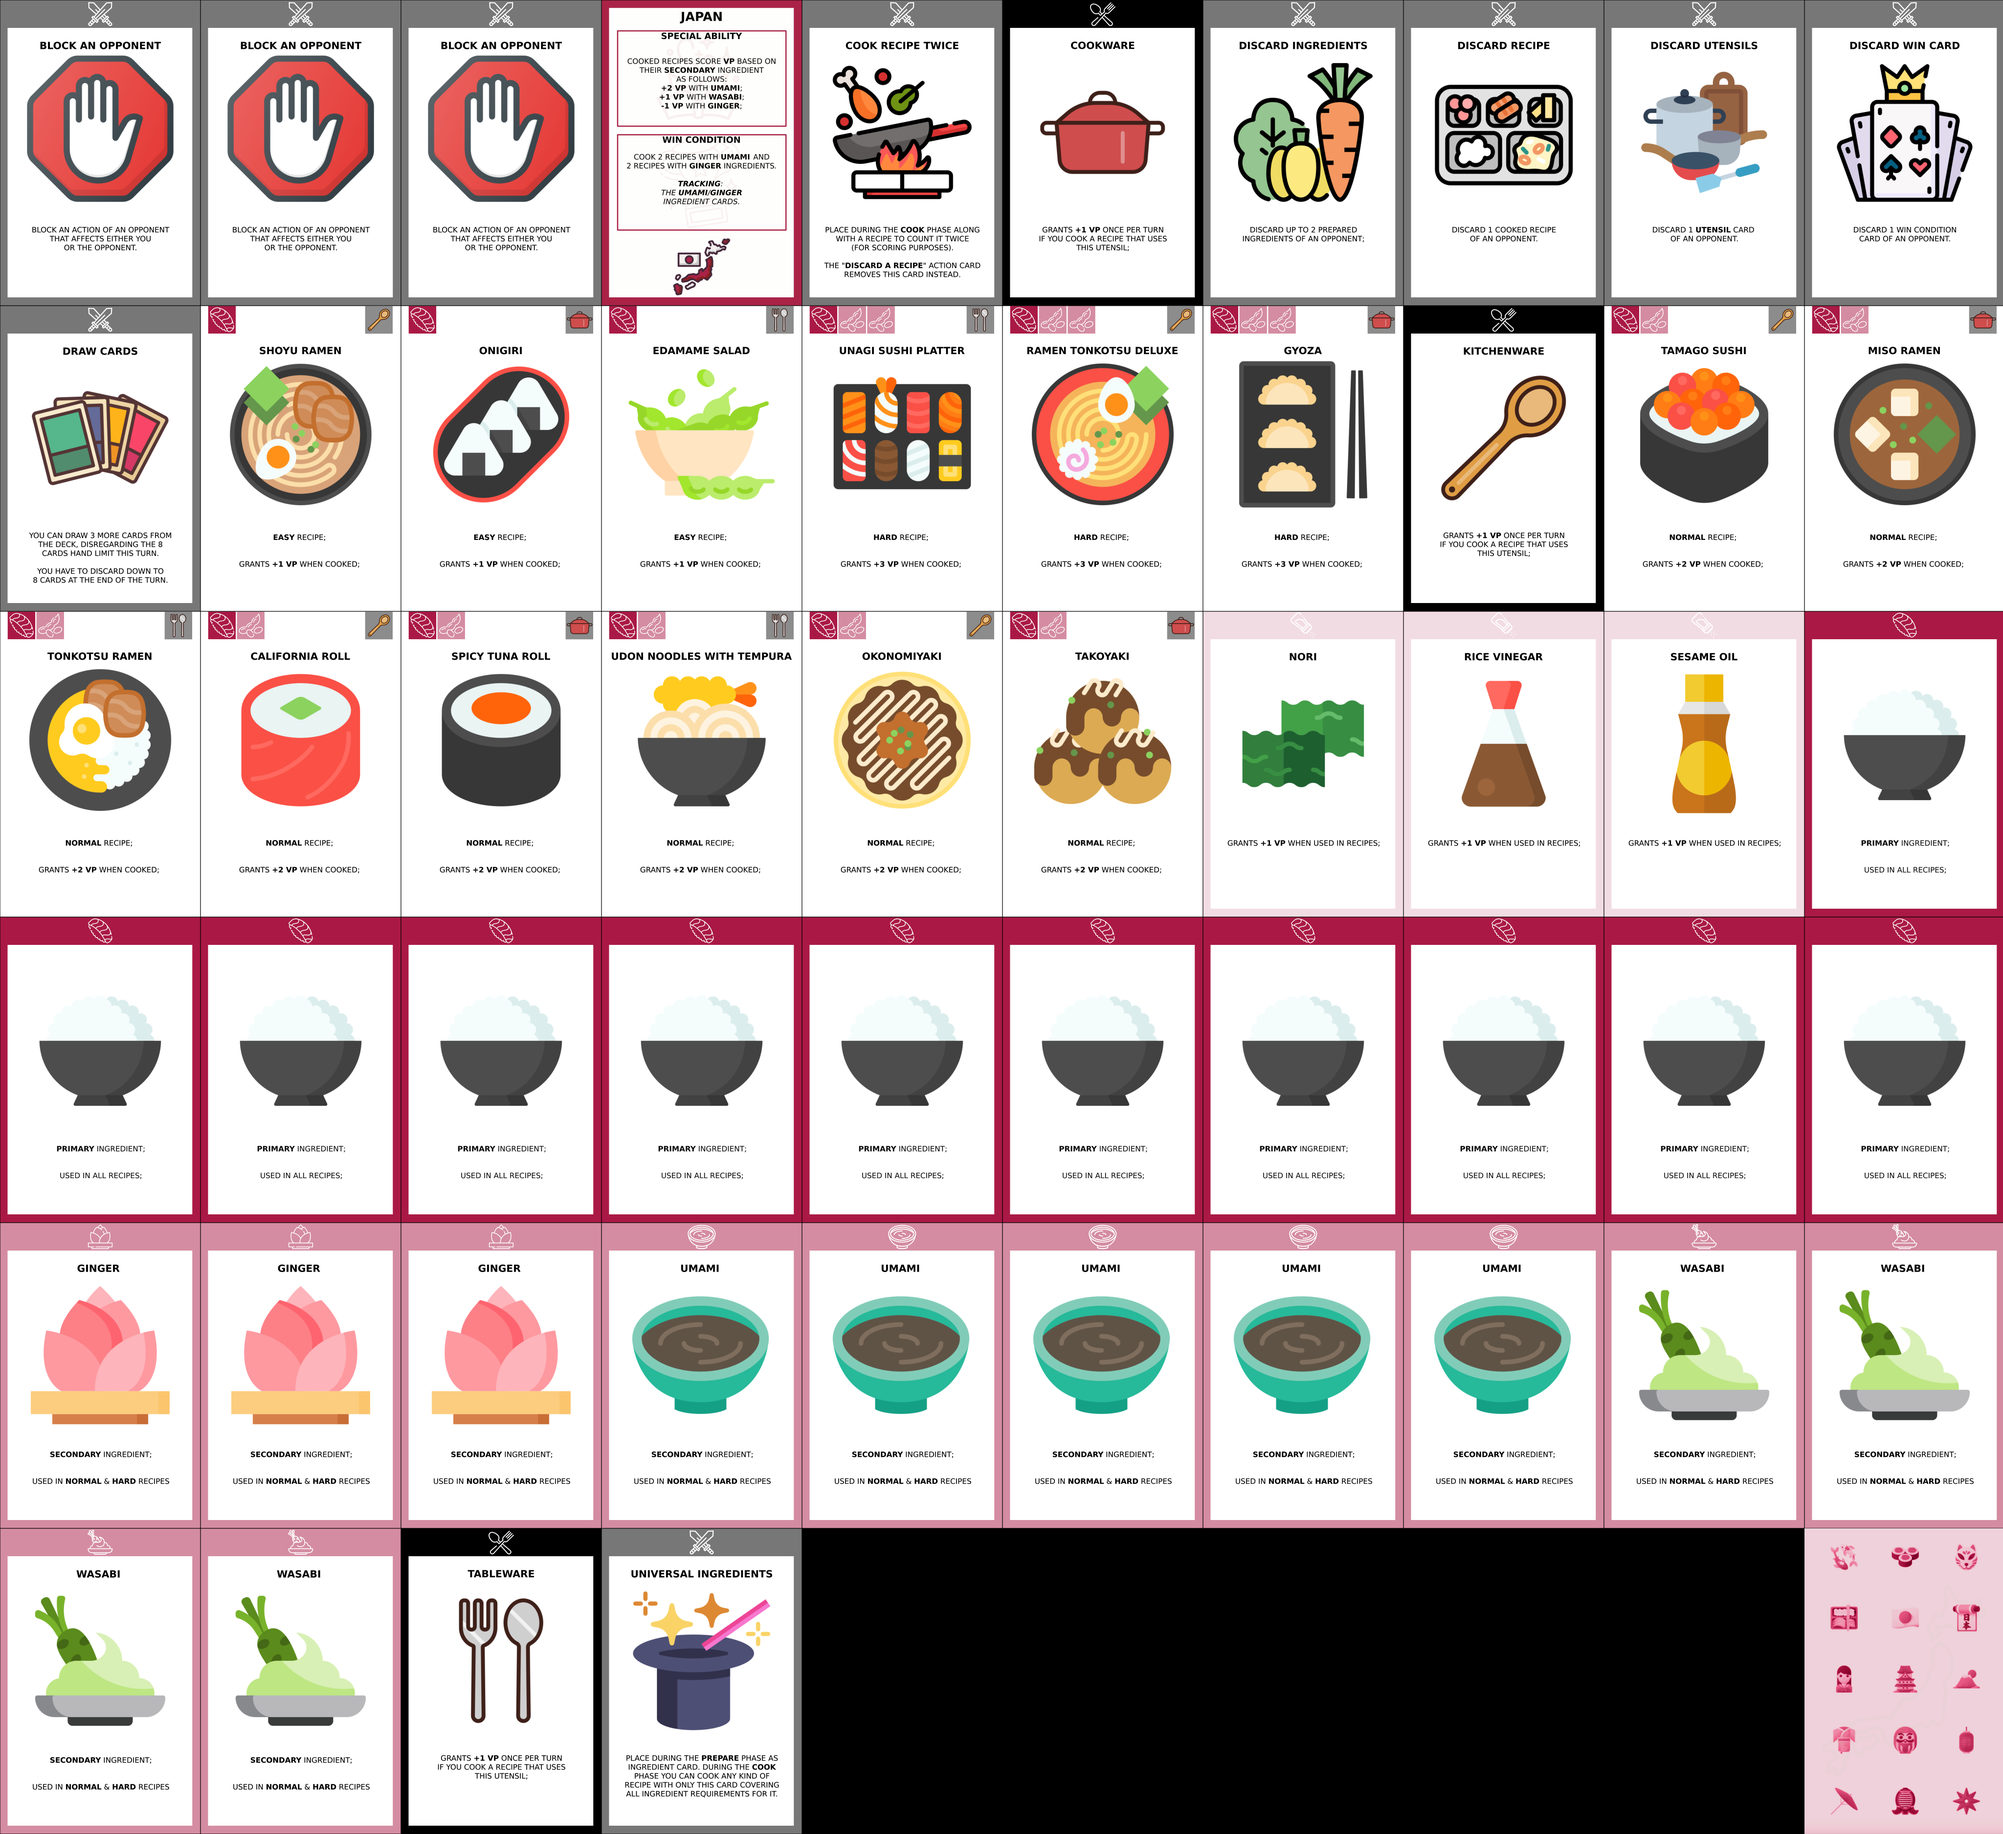
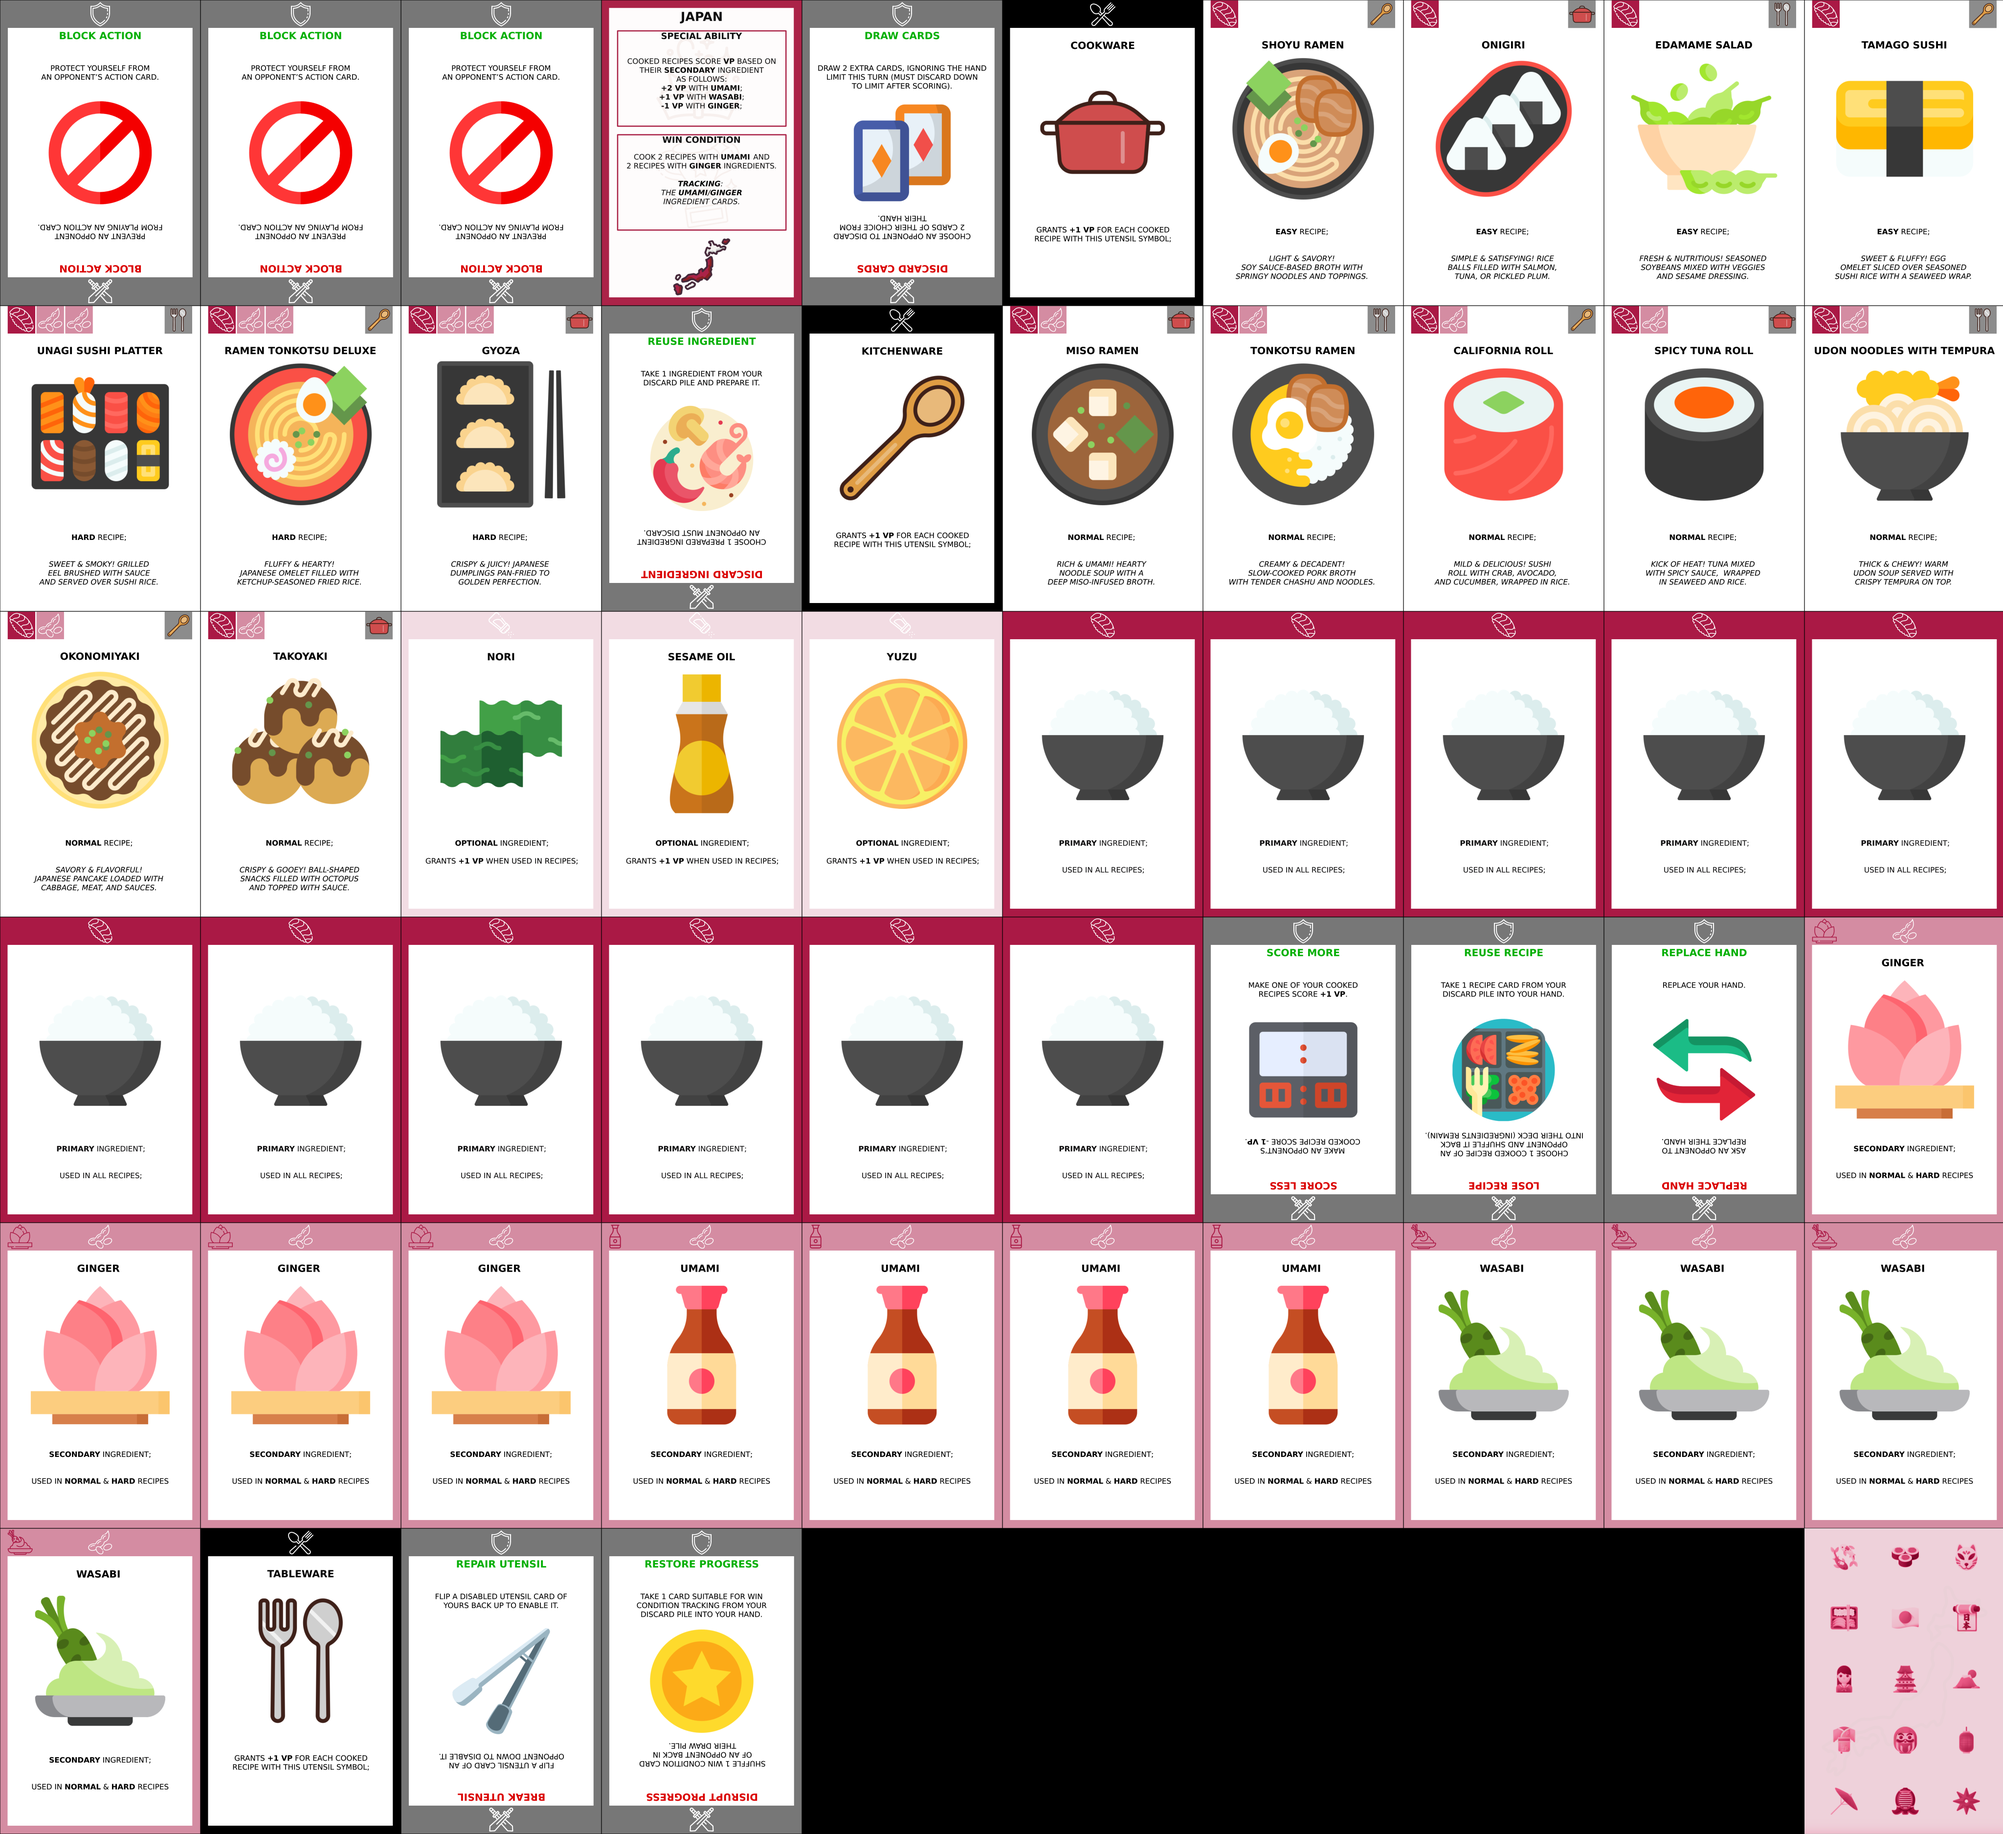
decks changes

diff --git a/meal-mayhem/Decks.md b/meal-mayhem/Decks.md
@@ -43,10 +43,10 @@ grant bonus VP as follows: **normal** recipes grant **+1 VP**; **hard** recipes 
     - Parmigiano
 - Recipe Cards (14):
   - Easy Recipes (4)
-    - Pasta Aglio e Olio [kitchenware]
-    - Penne al Pomodoro [cookware]
-    - Cacio e Pepe [tableware]
-    - Gnocchi alla Panna [kitchenware]
+    - Marinara [kitchenware]
+    - Quattro Formaggi [cookware]
+    - Napoletana [tableware]
+    - Capricciosa [kitchenware]
   - Normal Recipes (7)
     - Spaghetti Carbonara (Spaghetti) [cookware]
     - Fettuccine Alfredo (Fettuccine) [tableware]
@@ -217,23 +217,23 @@ VP equal to that amount. You don't have to match the recipe requirements for the
     - Mayo
 - Recipe Cards (15):
   - Easy Recipes (4)
-    - Lobster Roll [kitchenware]
-    - Cornbread [cookware]
-    - Clam Chowder [tableware]
-    - Johnny Cakes [kitchenware]
+    - Lobster Roll [cookware]
+    - Cornbread [tableware]
+    - Clam Chowder [kitchenware]
+    - Johnny Cakes [cookware]
   - Normal Recipes (8):
-    - Juicy Lucy (Burger) [cookware]
-    - Classic Cheeseburger (Burger) [tableware]
-    - Bacon Cheeseburger (Burger) [kitchenware]
-    - Green Chile Cheeseburger (Burger) [cookware]
-    - Philly Cheesesteak (Steak) [tableware]
-    - Tomahawk Steak (Steak) [kitchenware]
-    - Porterhouse Steak (Steak) [cookware]
-    - Ribeye Steak (Steak) [tableware]
+    - Juicy Lucy (Burger) [tableware]
+    - Classic Cheeseburger (Burger) [kitchenware]
+    - Bacon Cheeseburger (Burger) [cookware]
+    - Green Chile Cheeseburger (Burger) [tableware]
+    - Philly Cheesesteak (Steak) [kitchenware]
+    - Tomahawk Steak (Steak) [cookware]
+    - Porterhouse Steak (Steak) [tableware]
+    - Ribeye Steak (Steak) [kitchenware]
   - Hard Recipes (3):
-    - Deep-fried Burger (Burger) [kitchenware]
-    - T-bone Steak (Steak) [cookware]
-    - Apple Pie [tableware]
+    - Deep-fried Burger (Burger) [cookware]
+    - T-bone Steak (Steak) [tableware]
+    - Apple Pie [kitchenware]
 - Action Cards (10)
 - Country Card (1)
 </details>
@@ -252,32 +252,31 @@ benefit from special ability effects of the replaced recipe.
 - Utensil Cards (3)
 - Ingredient Cards (24):
   - Primary (12)
-  - Secondary (8)
-  - Optional (4):
+  - Secondary (9)
+  - Optional (3):
     - Sumac
     - Paprika
     - Pomegranate Juice
-    - Tahini
 - Recipe Cards (16):
   - Easy Recipes (7):
-    - Shish Kebab [kitchenware]
-    - Adana Kebab [cookware]
-    - Iskender Kebab [tableware]
-    - Ciğer Kebab [kitchenware]
-    - Döner Kebab [cookware]
-    - Beyti Kebab [tableware]
-    - Tepsi Kebab [kitchenware]
+    - Shish Kebab [tableware]
+    - Adana Kebab [kitchenware]
+    - Iskender Kebab [cookware]
+    - Ciğer Kebab [tableware]
+    - Döner Kebab [kitchenware]
+    - Beyti Kebab [cookware]
+    - Tepsi Kebab [tableware]
   - Normal Recipes (6):
-    - Patlican Dolmasi [cookware]
-    - Lahmacun [tableware]
-    - Pide [kitchenware]
-    - Köftesi [cookware]
-    - Muhammara [tableware]
-    - Imam Bayildi [kitchenware]
+    - Patlican Dolmasi [kitchenware]
+    - Lahmacun [cookware]
+    - Pide [tableware]
+    - Köftesi [kitchenware]
+    - Muhammara [cookware]
+    - Imam Bayildi [tableware]
   - Hard Recipes (3):
-    - Baklava [cookware]
-    - Tulumba [tableware]
-    - Kadayif [kitchenware]
+    - Baklava [kitchenware]
+    - Turkish Delight [cookware]
+    - Kadayif [tableware]
 - Action Cards (10)
 - Country Card (1)
 </details>
@@ -297,20 +296,20 @@ benefit from special ability effects of the replaced recipe.
 - Ingredient Cards (26):  
   - Primary (11)
   - Secondary (12):
-    - Umami (5)
+    - Umami (4)
     - Wasabi (4)
-    - Ginger (3)
+    - Ginger (4)
   - Optional (3):
     - Nori
     - Sesame Oil
-    - Rice Vinegar
+    - Yuzu
 - Recipe Cards (14): 
-  - Easy Recipes (3)
+  - Easy Recipes (4)
     - Shoyu Ramen [kitchenware]
     - Onigiri [cookware]
     - Edamame Salad [tableware]
-  - Normal Recipes (8):
     - Tamago Sushi [kitchenware]
+  - Normal Recipes (7):
     - Miso Ramen [cookware]
     - Tonkotsu Ramen [tableware]
     - California Roll [kitchenware]
@@ -341,31 +340,31 @@ discard 1 card from your hand for each.
 - Ingredient Cards (26):
   - Primary (11)
   - Secondary (12):
-    - Habanero (Hot) (4)
-    - Jalapeño (Hot) (3)
-    - Avocado (5)
+    - Cayenne Pepper (Hot) (4)
+    - Jalapeño (Hot) (4)
+    - Avocado (4)
   - Optional (3):
     - Lime
     - Cilantro
     - Sour Cream
 - Recipe Cards (14):
   - Easy Recipes (5):
-    - Quesadilla [kitchenware]
-    - Taco de Frijoles [cookware]
-    - Chilaquiles Verdes [tableware]
-    - Carne Asada Tacos [kitchenware]
-    - Enchiladas Rojas [cookware]
+    - Quesadilla [cookware]
+    - Taco de Frijoles [tableware]
+    - Chilaquiles Verdes [kitchenware]
+    - Carne Asada Tacos [cookware]
+    - Enchiladas Rojas [tableware]
   - Normal Recipes (6):
-    - Mole Poblano with Rice [tableware]
-    - Burrito de Frijoles [kitchenware]
-    - Chicken Fajitas [cookware]
-    - Tostadas de Pollo [tableware]
-    - Pico de Gallo Nachos [kitchenware]
-    - Taco al Pastor [cookware]
+    - Mole Poblano with Rice [kitchenware]
+    - Burrito de Frijoles [cookware]
+    - Chicken Fajitas [tableware]
+    - Tostadas de Pollo [kitchenware]
+    - Pico de Gallo Nachos [cookware]
+    - Taco al Pastor [tableware]
   - Hard Recipes (3):
-    - Pozole Rojo [tableware]
-    - Chiles Rellenos [kitchenware]
-    - Tamales [cookware]
+    - Pozole Rojo [kitchenware]
+    - Chiles Rellenos [cookware]
+    - Tamales [tableware]
 - Action Cards (10)
 - Country Card (1)
 </details>

diff --git a/meal-mayhem/Rules.md b/meal-mayhem/Rules.md
@@ -89,21 +89,12 @@ Can be:
 - **Normal** - Require 1 **primary** and 1 **secondary** ingredient and grant **+2 VP**.
 - **Hard** - Require 1 **primary** and 2 **secondary** ingredients and grant **+3 VP**.
 
-Recipes have the following specifics:
+Hard recipes have the following specific:
 
-- **Normal** and **Hard** recipes can be cooked for less but score less VP accordingly. For example,
-you can cook a **hard** recipe with only 1 secondary ingredient (as **normal** recipe) but you also
-score only **2 VP** (as **normal** recipes do). Or cook it only with the primary ingredient as 
-**easy** recipe to score only **1 VP**.
-- **Hard** recipes when cooked with their ingredient requirements fully covered make all other 
-recipes cooked in that turn to score extra **1 VP**. For example if you cook 1 **hard** recipe along
-with 2 **easy** recipes that turn, you score extra **2 VP** for the **easy** recipes totalling to
-3 + 1 + 1 + 2 = **7 VP**. This effect stacks so if you cook 2 **hard** recipes along with 1 
-**easy** recipe you score 3 + 3 + 1 + 2 + 2 = **11 VP**.
-- Only recipes that were cooked with their ingredient requirements fully covered participate in win
-condition tracking. For example with the Italy deck if you cook the **normal** recipe "Fettuccine
-Alfredo" with "Fettuccine" as **primary** ingredient only (so as an **easy** recipe) you cannot
-place the "Fettuccine" ingredient card in your win condition tracking area.
+- **Hard** recipes when cooked score extra **1 VP** for any other recipe cooked in the same turn.
+For example if you cook 1 **hard** recipe along with 2 **easy** recipes that turn, you score extra
+**2 VP** for the **easy** recipes totalling to 3 + 1 + 1 + 2 = **7 VP**. This effect stacks so if
+you cook 2 **hard** recipes along with 1 **easy** recipe you score 3 + 3 + 1 + 2 + 2 = **11 VP**.
 
 ### Action Cards
 

diff --git a/meal-mayhem/CHANGELOG.md b/meal-mayhem/CHANGELOG.md
@@ -8,11 +8,12 @@ CHANGES:
   * All decks aligned to have 3 hard recipes.
   * Card "design" aligned so that ingredients & recipes are using "Fill color" art instead of
   borders at random.
+  * Icons for ingredient types streamlined (now distinct features are with separate icon)
 * Utensil adjustments:
   * Utensil order no longer starts with kitchenware for all decks.
   * Utensils now grant their bonus for each recipe.
 * Removed max limit of 1 optional ingredient per recipe.
-* Introduced 2 new recipe mechanics and win condition limitation.
+* Introduced bonus score mechanic to promote cooking hard recipes.
 * Action cards redesigned to have offensive and defensive functions.
 
 
